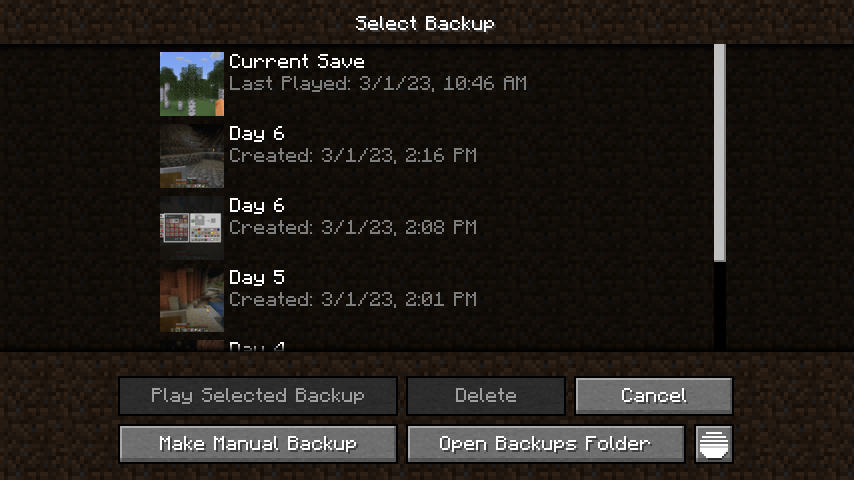
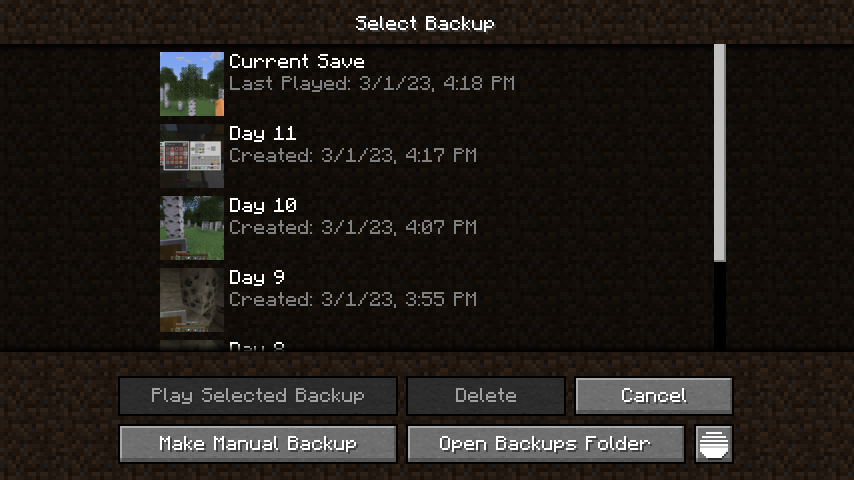
Fixed creation dates being shown with wrong timezone.

diff --git a/src/main/java/ir/mehradn/rollback/util/backup/RollbackBackup.java b/src/main/java/ir/mehradn/rollback/util/backup/RollbackBackup.java
@@ -8,7 +8,7 @@ import java.nio.file.Path;
 import java.text.DateFormat;
 import java.text.SimpleDateFormat;
 import java.time.LocalDateTime;
-import java.time.ZoneOffset;
+import java.time.ZoneId;
 import java.time.format.DateTimeFormatter;
 import java.time.format.DateTimeFormatterBuilder;
 import java.time.format.SignStyle;
@@ -61,7 +61,7 @@ public class RollbackBackup {
     }
 
     public String getDateAsString() {
-        Date date = Date.from(this.backupTime.toInstant(ZoneOffset.UTC));
+        Date date = Date.from(this.backupTime.atZone(ZoneId.systemDefault()).toInstant());
         return DATE_FORMAT.format(date);
     }
 }
